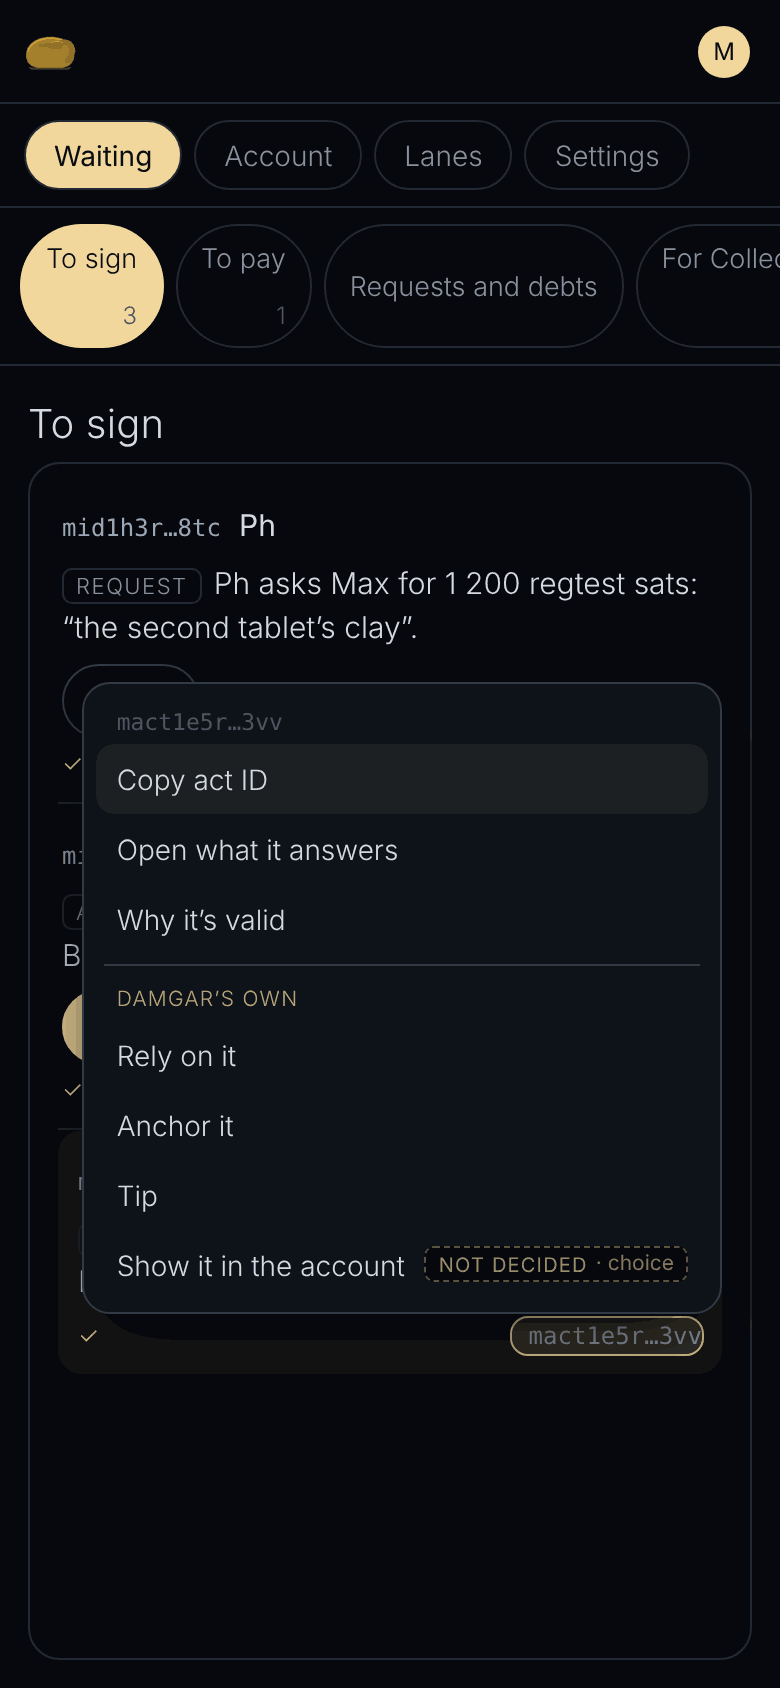
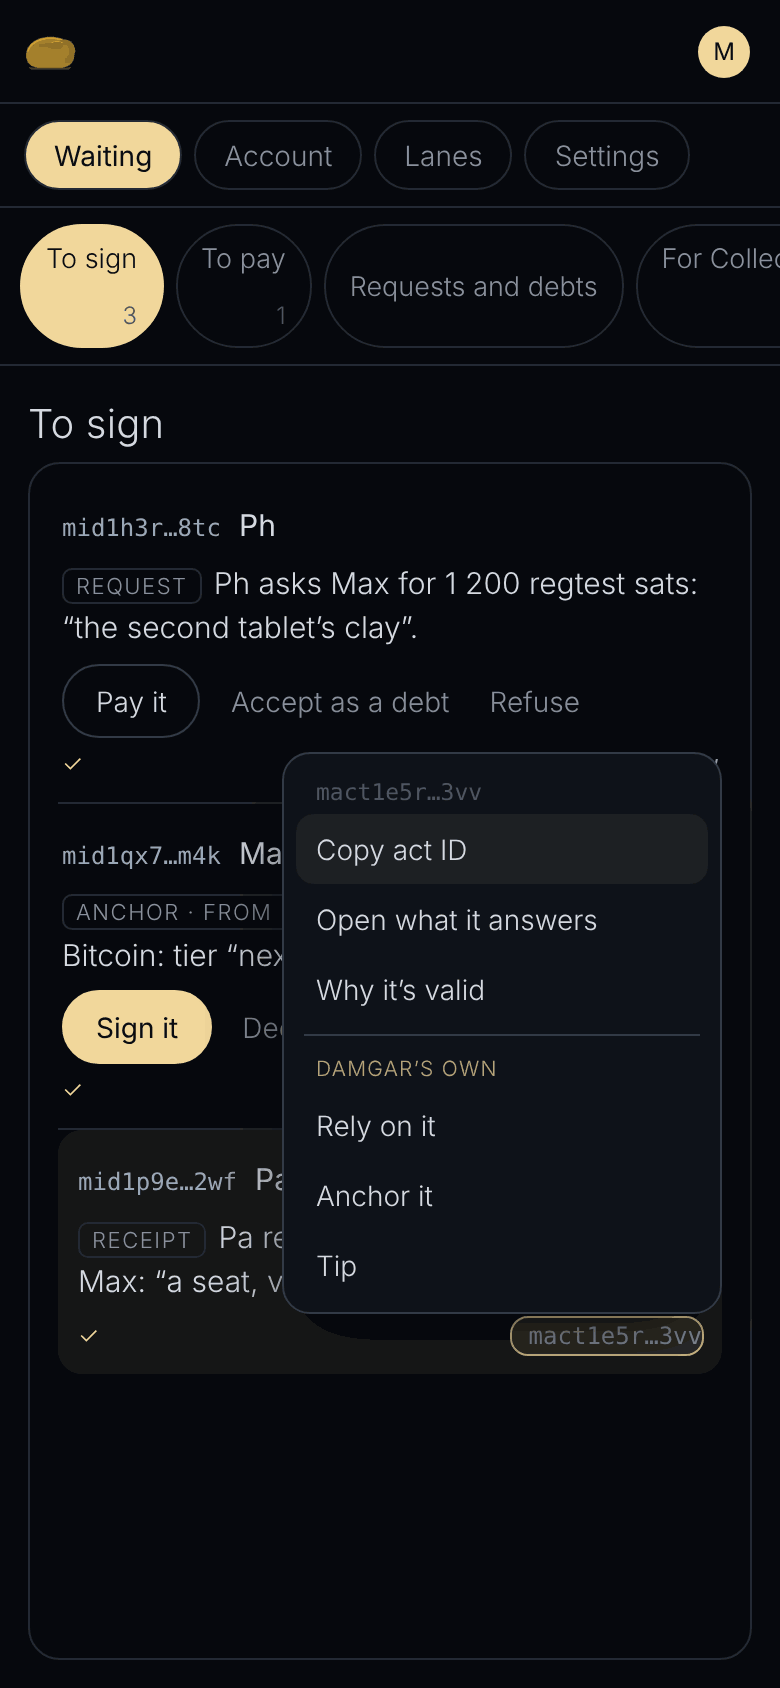
Act menus decided: Damgar's and Ummia's shortcuts dropped
Nobody, allegedly, on question 7 of the mockups report (21 October 2026),
after each entry was explained: "Agreed." The bottom halves stand as drawn,
without Damgar's "Show it in the account" and Ummia's "Discuss it" (both
only shortcuts to a tile). The report records the answer.

Claude-Session: https://claude.ai/code/session_01QoHu5J9KBXykGPCHZ7ZQVy

diff --git a/docs/design/mockups/damgar-act-menu.html b/docs/design/mockups/damgar-act-menu.html
@@ -2,5 +2,5 @@
 <html lang="en"><head><meta charset="utf-8"><meta name="viewport" content="width=device-width,initial-scale=1">
 <title>Damgar: The act card: the act’s menu (Damgar) (mockup)</title><link rel="stylesheet" href="suite.css"></head>
 <body class="damgar"><div class="win">
-<header class="top"><div class="app"><img src="icons/damgar.png" alt=""><span class="nm">Damgar</span></div><nav class="tabs"><span class="tab on">Waiting</span><span class="tab">Account</span><span class="tab">Lanes</span><span class="tab">Settings</span></nav><span class="grow"></span><span class="grow"></span><button class="me"><span class="n">Max</span><span class="s">mid1qx7…m4k</span><span class="dot">M</span></button></header><nav class="phonetabs"><span class="tab on">Waiting</span><span class="tab">Account</span><span class="tab">Lanes</span><span class="tab">Settings</span></nav><div class="body"><aside class="col"><a class="on ">To sign<span class="k">3</span></a><a class="">To pay<span class="k">1</span></a><a class="">Requests and debts</a><div class="sep"></div><a class="">For Collective Y<span class="k">0</span></a><div class="coltag"><span class="nd">not decided<b>· the column’s parts</b></span></div></aside><section class="pane"><h2>To sign</h2><div class="feedwrap"><div class="feed menuopen"><article class="act"><span class="when">09:02</span><button class="signer"><span class="sid">mid1h3r…8tc</span><span class="nm">Ph</span></button><div class="txt"><span class="kind">request</span>Ph asks Max for 1 200 regtest sats: “the second tablet’s clay”.</div><div class="row" style="margin:4px 0"><span class="btn">Pay it</span><span class="btn q">Accept as a debt</span><span class="btn q">Refuse</span></div><div class="foot"><span class="v" title="verified">✓</span><button class="actid">mact1q8r…2ow</button></div></article><article class="act"><span class="when">Mon</span><button class="signer"><span class="sid">mid1qx7…m4k</span><span class="nm">Max</span></button><div class="txt"><span class="kind">anchor · from Ummia</span>Anchor mor-dub 0.4 on Bitcoin: tier “next batch”, 300 regtest sats.</div><div class="row" style="margin:4px 0"><span class="btn p">Sign it</span><span class="btn q">Decline</span></div><div class="foot"><span class="v" title="verified">✓</span><button class="actid">mact1a6c…9qz</button></div></article><article class="act sel"><span class="when">Sun</span><button class="signer"><span class="sid">mid1p9e…2wf</span><span class="nm">Pa</span></button><div class="txt"><span class="kind">receipt</span>Pa received 800 regtest sats from Max: “a seat, vowed”.</div><div class="foot"><span class="v" title="verified">✓</span><button class="actid open">mact1e5r…3vv</button></div><div class="pop" style="bottom:30px;right:0"><div class="t">mact1e5r…3vv</div><a>Copy act ID</a><a>Open what it answers</a><a>Why it’s valid</a><hr><div class="own">Damgar’s own</div><a>Rely on it</a><a>Anchor it</a><a>Tip</a><a>Show it in the account <span class="nd">not decided<b>· choice</b></span></a></div></article></div></div></section></div>
+<header class="top"><div class="app"><img src="icons/damgar.png" alt=""><span class="nm">Damgar</span></div><nav class="tabs"><span class="tab on">Waiting</span><span class="tab">Account</span><span class="tab">Lanes</span><span class="tab">Settings</span></nav><span class="grow"></span><span class="grow"></span><button class="me"><span class="n">Max</span><span class="s">mid1qx7…m4k</span><span class="dot">M</span></button></header><nav class="phonetabs"><span class="tab on">Waiting</span><span class="tab">Account</span><span class="tab">Lanes</span><span class="tab">Settings</span></nav><div class="body"><aside class="col"><a class="on ">To sign<span class="k">3</span></a><a class="">To pay<span class="k">1</span></a><a class="">Requests and debts</a><div class="sep"></div><a class="">For Collective Y<span class="k">0</span></a><div class="coltag"><span class="nd">not decided<b>· the column’s parts</b></span></div></aside><section class="pane"><h2>To sign</h2><div class="feedwrap"><div class="feed menuopen"><article class="act"><span class="when">09:02</span><button class="signer"><span class="sid">mid1h3r…8tc</span><span class="nm">Ph</span></button><div class="txt"><span class="kind">request</span>Ph asks Max for 1 200 regtest sats: “the second tablet’s clay”.</div><div class="row" style="margin:4px 0"><span class="btn">Pay it</span><span class="btn q">Accept as a debt</span><span class="btn q">Refuse</span></div><div class="foot"><span class="v" title="verified">✓</span><button class="actid">mact1q8r…2ow</button></div></article><article class="act"><span class="when">Mon</span><button class="signer"><span class="sid">mid1qx7…m4k</span><span class="nm">Max</span></button><div class="txt"><span class="kind">anchor · from Ummia</span>Anchor mor-dub 0.4 on Bitcoin: tier “next batch”, 300 regtest sats.</div><div class="row" style="margin:4px 0"><span class="btn p">Sign it</span><span class="btn q">Decline</span></div><div class="foot"><span class="v" title="verified">✓</span><button class="actid">mact1a6c…9qz</button></div></article><article class="act sel"><span class="when">Sun</span><button class="signer"><span class="sid">mid1p9e…2wf</span><span class="nm">Pa</span></button><div class="txt"><span class="kind">receipt</span>Pa received 800 regtest sats from Max: “a seat, vowed”.</div><div class="foot"><span class="v" title="verified">✓</span><button class="actid open">mact1e5r…3vv</button></div><div class="pop" style="bottom:30px;right:0"><div class="t">mact1e5r…3vv</div><a>Copy act ID</a><a>Open what it answers</a><a>Why it’s valid</a><hr><div class="own">Damgar’s own</div><a>Rely on it</a><a>Anchor it</a><a>Tip</a></div></article></div></div></section></div>
 </div></body></html>

diff --git a/docs/design/mockups/ummia-act-menu.html b/docs/design/mockups/ummia-act-menu.html
@@ -5,5 +5,5 @@
 <header class="top"><div class="app"><img src="icons/ummia.png" alt=""><span class="nm">Ummia</span></div><nav class="tabs"><span class="tab on">Look</span><span class="tab">Discuss</span><span class="tab">Publish</span><span class="tab">Choose</span></nav><span class="grow"></span><span class="grow"></span><button class="me"><span class="n">Max</span><span class="s">mid1qx7…m4k</span><span class="dot">M</span></button></header><nav class="phonetabs"><span class="tab on">Look</span><span class="tab">Discuss</span><span class="tab">Publish</span><span class="tab">Choose</span></nav><div class="body"><aside class="col"><a class="on ">The feed</a><div class="sep"></div><h3>Saved</h3><a class="">mor-dub’s release line</a><a class="">Pa’s releases</a><a class="">relay-a.test</a><div class="coltag"><span class="nd">not decided<b>· the column’s parts</b></span></div></aside><section class="pane"><div class="point"><span class="lbl">Point at</span><span class="chip p">relay-a.test</span><span class="chip">a single ID</span><span class="chip">my contacts</span><span class="chip">a release</span></div>
 <div class="point"><span class="lbl">Filter by</span><span class="chip on">releases</span><span class="chip on">cMIPs</span><span class="chip on">Modules</span><span class="chip on">xtypes</span><span class="chip">extensions</span></div><div class="feedwrap"><div class="feed menuopen"><article class="act"><span class="when">09:30</span><button class="signer"><span class="sid">mid1y2c…v9s</span><span class="nm">Collective Y</span></button><div class="txt"><span class="kind">release</span>mor-dub 0.4 · 14 files
 What changed since 0.3: 3 files changed, 1 added; implements mspec1h7…2q9.</div><div class="foot"><span class="v" title="verified">✓</span><button class="actid">mact1y0g…7tt</button></div></article><article class="act sel"><span class="when">09:05</span><button class="signer"><span class="sid">mid1p9e…2wf</span><span class="nm">Pa</span></button><div class="txt"><span class="kind">cMIP</span>Dubsar Slots, draft 1 · mspec1s4…8kw
-A vow sold many times: one offer per slot.</div><div class="foot"><span class="v" title="verified">✓</span><button class="actid open">mact1c3m…6pp</button></div><div class="pop" style="bottom:30px;right:0"><div class="t">mact1c3m…6pp</div><a>Copy act ID</a><a>Open what it answers</a><a>Why it’s valid</a><hr><div class="own">Ummia’s own</div><a>Add to accepted list</a><a>Discuss it <span class="nd">not decided<b>· choice</b></span></a><a>Rely on it</a><a>Anchor it</a></div></article></div></div></section></div>
+A vow sold many times: one offer per slot.</div><div class="foot"><span class="v" title="verified">✓</span><button class="actid open">mact1c3m…6pp</button></div><div class="pop" style="bottom:30px;right:0"><div class="t">mact1c3m…6pp</div><a>Copy act ID</a><a>Open what it answers</a><a>Why it’s valid</a><hr><div class="own">Ummia’s own</div><a>Add to accepted list</a><a>Rely on it</a><a>Anchor it</a></div></article></div></div></section></div>
 </div></body></html>

diff --git a/docs/design/mockups-report.md b/docs/design/mockups-report.md
@@ -84,10 +84,11 @@ Section 2 lists each one. Everything without a tag is the note's *decided* or *a
 15. Each column's parts, on every tile opened, are taken from today's functions (one quiet tag at the foot of each column).
 16. The tabs across a selected collective: Act · Members · Money · Keepers · To sign. The note's "sketch" is not in the repository.
 17. The bottom half of the act menu, per app. Rely and Anchor are in every app; Correct appears on one's own acts.
-    - **Dub:** Reply, Repost, Tip, Buy.
-    - **Damgar:** Tip, and "Show it in the account".
-    - **Ummia:** "Add to accepted list" (decided), and "Discuss it".
+    - **Dub:** Reply, Repost, Tip, Buy; on a vow bought, Confirm or Contest (question 5).
+    - **Damgar:** Tip.
+    - **Ummia:** "Add to accepted list" (decided).
     - **Edubba:** "Confirm: it was kept" and "Contest it" (on a vow).
+    *Decided by Nobody, allegedly, 21 October 2026 (question 7): "Agreed", to the lean: as drawn, with Damgar's "Show it in the account" and Ummia's "Discuss it" dropped (both only shortcuts to a tile). Removed from the menus.*
 18. The bottom half of the signer's menu: Follow: add to contacts, and Mute, in every app.
     - **Dub and Edubba:** Message.
     - **Damgar:** Tip.
@@ -222,7 +223,7 @@ No function of today was dropped from the pictures. The decided removals are Dub
 4. **Kišib's identity at top right: "Holds nothing" while the runner is off, the runner's identities when it is on?** The note puts an identity top right in every app, and also says Kišib works differently. *Lean: yes.* **Answered, 21 October 2026: "Kišib is different, the only place where an ID can be held is the new runner."** As drawn: nothing held while the runner is off; the runner's identities when it is on.
 5. **Contesting a vow bought from Dub: in the vow's act menu?** On 17 October you decided contests also run via Dub. Today they live in the Signing tab, which the redesign removes. *Lean: yes, as "Confirm: it was kept" and "Contest it" under the line.* **Answered, 21 October 2026: "In dub… it should only show as an option on vows the ID purchased."** Drawn in `dub-vow-menu`: on a vow Max bought, the menu ends with a line, then Confirm: it was kept and Contest it… (Buy is gone, since it is bought); a vow not bought has neither.
 6. **The three things proposed dropped: Claude's drafts, the received-items piles, Pay someone.** Drop them, or keep them where they are drawn (Edubba Agents › Queue; Dub's To you lens; Damgar's Waiting)? *Lean: drop Claude's drafts and the piles; keep Pay someone in Damgar, since Damgar is the money hub.* **Answered, 21 October 2026:** "Maybe dub needs a 'purchases' tab, a way to quickly see files bought and vows purchased. Drafts can be removed. The sorting pile makes sense only if then there are feeds to go find them. I'd remove them for now. It's a mailbox behavior type of things. Pay needs to be kept, I'd have it on the profile page of the ID we want to pay to." Drawn: drafts and piles removed; Pay on the profile (`dub-profile-pay`); Purchases drawn and tagged (section 2, item 26).
-7. **The act menu's bottom halves (section 2, item 17): right per app?** *Lean: yes, but Damgar's "Show it in the account" and Ummia's "Discuss it" are the weakest; drop them if they feel invented.*
+7. **The act menu's bottom halves (section 2, item 17): right per app?** *Lean: yes, but Damgar's "Show it in the account" and Ummia's "Discuss it" are the weakest; drop them if they feel invented.* **Answered, 21 October 2026, after each entry was explained: "Agreed."** Both dropped; the rest stands as drawn.
 8. **The tiles' fill: pastel enough?** The tiles are a pastel wash over black; full pastel is kept for the open tab, the main button and the selected part. *Lean: as drawn. Say "more" and the tiles take a stronger wash.*
 9. **Collective Y's tabs (Act, Members, Money, Keepers, To sign): do they match your sketch?** *Lean: they follow today's folds; your sketch wins.*
 10. **The runner and lines of acts.** When the runner signs for Dub, it signs on its own line per app; Kišib's change of keys already finds every line. *Lean: say so in the runner cMIP. The core already allows an identity several lines (Identity, "Sequence"), so it is not a question for the MOR lead.*
